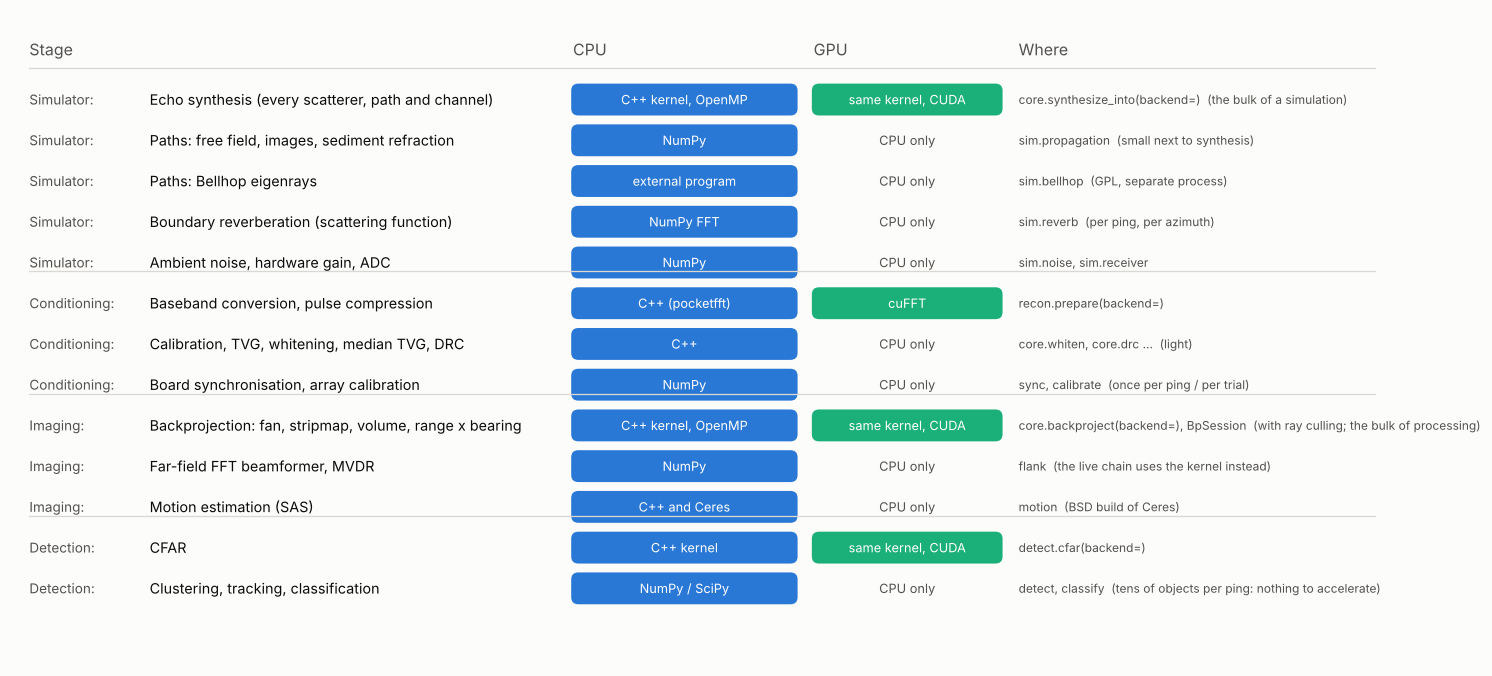
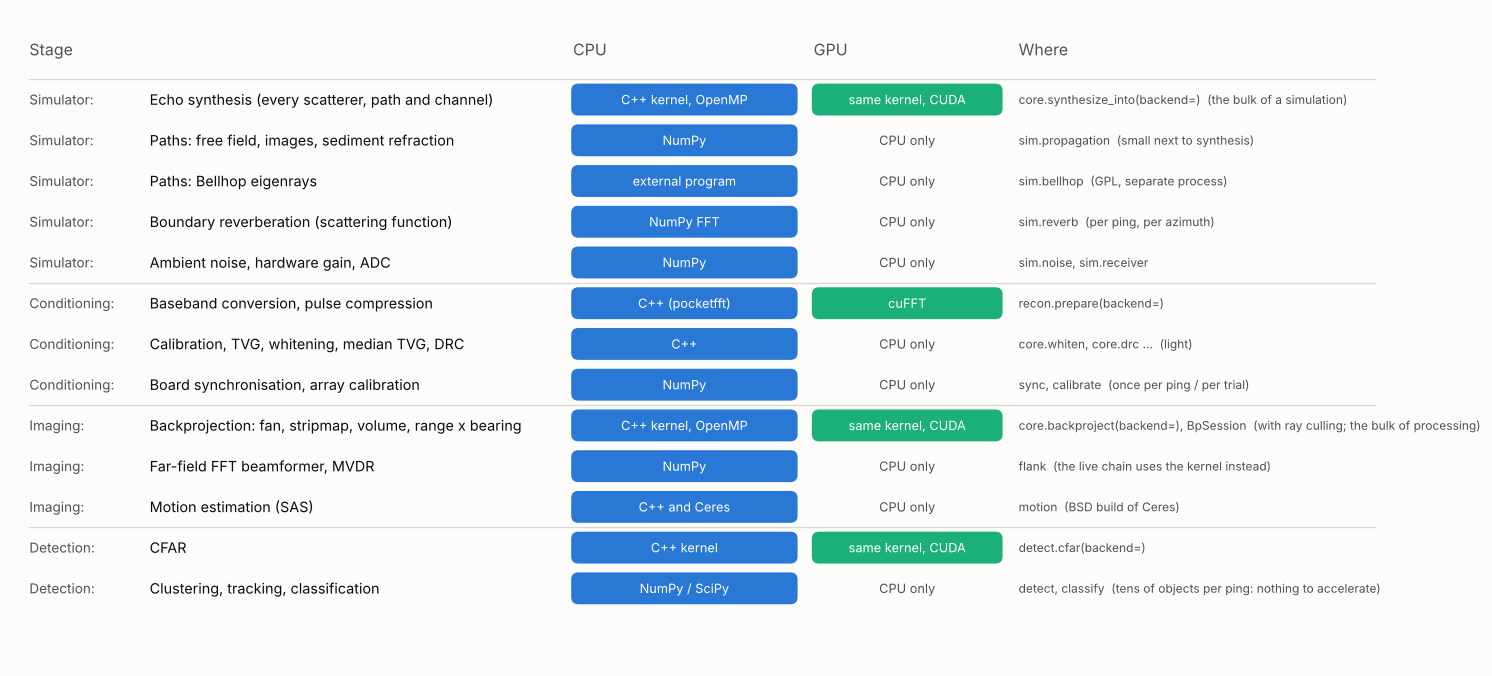
Final classifier results in the documents; backend table figure fixed
Twelve tracked scenes re-run at full size with the settled classifier and
stored in docs/figures; documented counts match (cluttered seabed: 5 mover,
30 static, 15 line, 15 uncertain). Scene tests assert what holds at thinned
size and check the documented full-size classes from the stored results.

Tests: full CPU suite passes (ctest 32 of 32).
GPU (L4, earlier in this round): 313 passed; the failures were two tests
rewritten since and documentation files left out of the upload.

Claude-Session: https://claude.ai/code/session_01QhYtHta4HR3WascrfVLbGv

diff --git a/tools/architecture_diagrams.py b/tools/architecture_diagrams.py
@@ -116,7 +116,7 @@ def draw_backends(path):
     for i, (g, stage, host, cuda, where, note) in enumerate(STAGES):
         y = top - 0.5 - i * 0.46
         if g != group:
-            ax.plot([0.2, 15.3], [y + 0.36, y + 0.36], color=GRID, lw=0.8)
+            ax.plot([0.2, 15.3], [y + 0.23, y + 0.23], color=GRID, lw=0.8)
             group = g
         ax.text(0.2, y, f"{g}: ", fontsize=8.5, color=MUTED, va="center")
         ax.text(1.55, y, stage, fontsize=9, va="center")

diff --git a/docs/SCENARIOS.md b/docs/SCENARIOS.md
@@ -180,12 +180,12 @@ boat at anchor.
 | Boat at anchor | tracked, 0.9 m, 0.02 m/s; classified static |
 | Detections per ping | 56 to 66 |
 | Confirmed tracks | 65 |
-| Track classes | 5 mover, 30 static, 16 line, 14 uncertain |
+| Track classes | 5 mover, 30 static, 15 line, 15 uncertain |
 | Tracks called movers that are not the boat | 4 |
 
 - Everything on the bed makes tracks. From the tracks alone, 30 are static (boulders,
-  debris), 16 are detections sliding along the pipeline as the aspect changes ("line":
-  motion along a linear feature cannot be told from the feature standing still), and 14
+  debris), 15 are detections sliding along the pipeline as the aspect changes ("line":
+  motion along a linear feature cannot be told from the feature standing still), and 15
   jump about too much to say. Before the line rule and the requirement that a mover be
   seen on most pings, 24 tracks were called movers.
 - Four movers remain that are not the boat. They were not examined one by one; a track at

diff --git a/docs/STATUS.md b/docs/STATUS.md
@@ -210,7 +210,7 @@ From reading the reference code (`HOLOSCAN_NOTES.md` section 1 has file and line
     surface reverberation at 10 m/s wind nothing was detected, the boat included. The
     rough-sea example was moved to 120 kHz, where the waves show.
   - In the cluttered scene 65 tracks are classified 5 mover (one is the boat), 30 static,
-    16 line, 14 uncertain; under the rough sea 57 tracks are 9 mover (one is the boat),
+    15 line, 15 uncertain; under the rough sea 57 tracks are 9 mover (one is the boat),
     39 uncertain. A buoy, a rock and a steady wave face still look alike.
   - In deep water the ship's echo arrives about 300 m late in range, consistent with a
     bottom path; ranges are not corrected for propagation.

diff --git a/docs/RESULTS.md b/docs/RESULTS.md
@@ -706,7 +706,7 @@ Source: `tests/python/test_classify.py` (synthetic tracks) and the gallery
 | `fls_120k_transit` | 7 | 1 | 6 | 0 | — | 0 | 0 |
 | `fls_170k_transit` | 4 | 1 | 3 | 0 | — | 0 | 0 |
 | `fls_330k_transit` | 2 | 1 | 1 | 0 | — | 0 | 0 |
-| `fls_120k_cluttered_seabed` | 65 | 5 | 30 | 16 | — | 14 | 4 |
+| `fls_120k_cluttered_seabed` | 65 | 5 | 30 | 15 | — | 15 | 4 |
 | `fls_120k_rough_surface` | 57 | 9 | 1 | 8 | — | 39 | 8 |
 | `fls_170k_traffic` | 11 | 5 | 2 | 1 | — | 3 | 3 |
 | `popoto_far_mover` | 6 | 1 | 1 | — | 4 | 0 | 0 |
